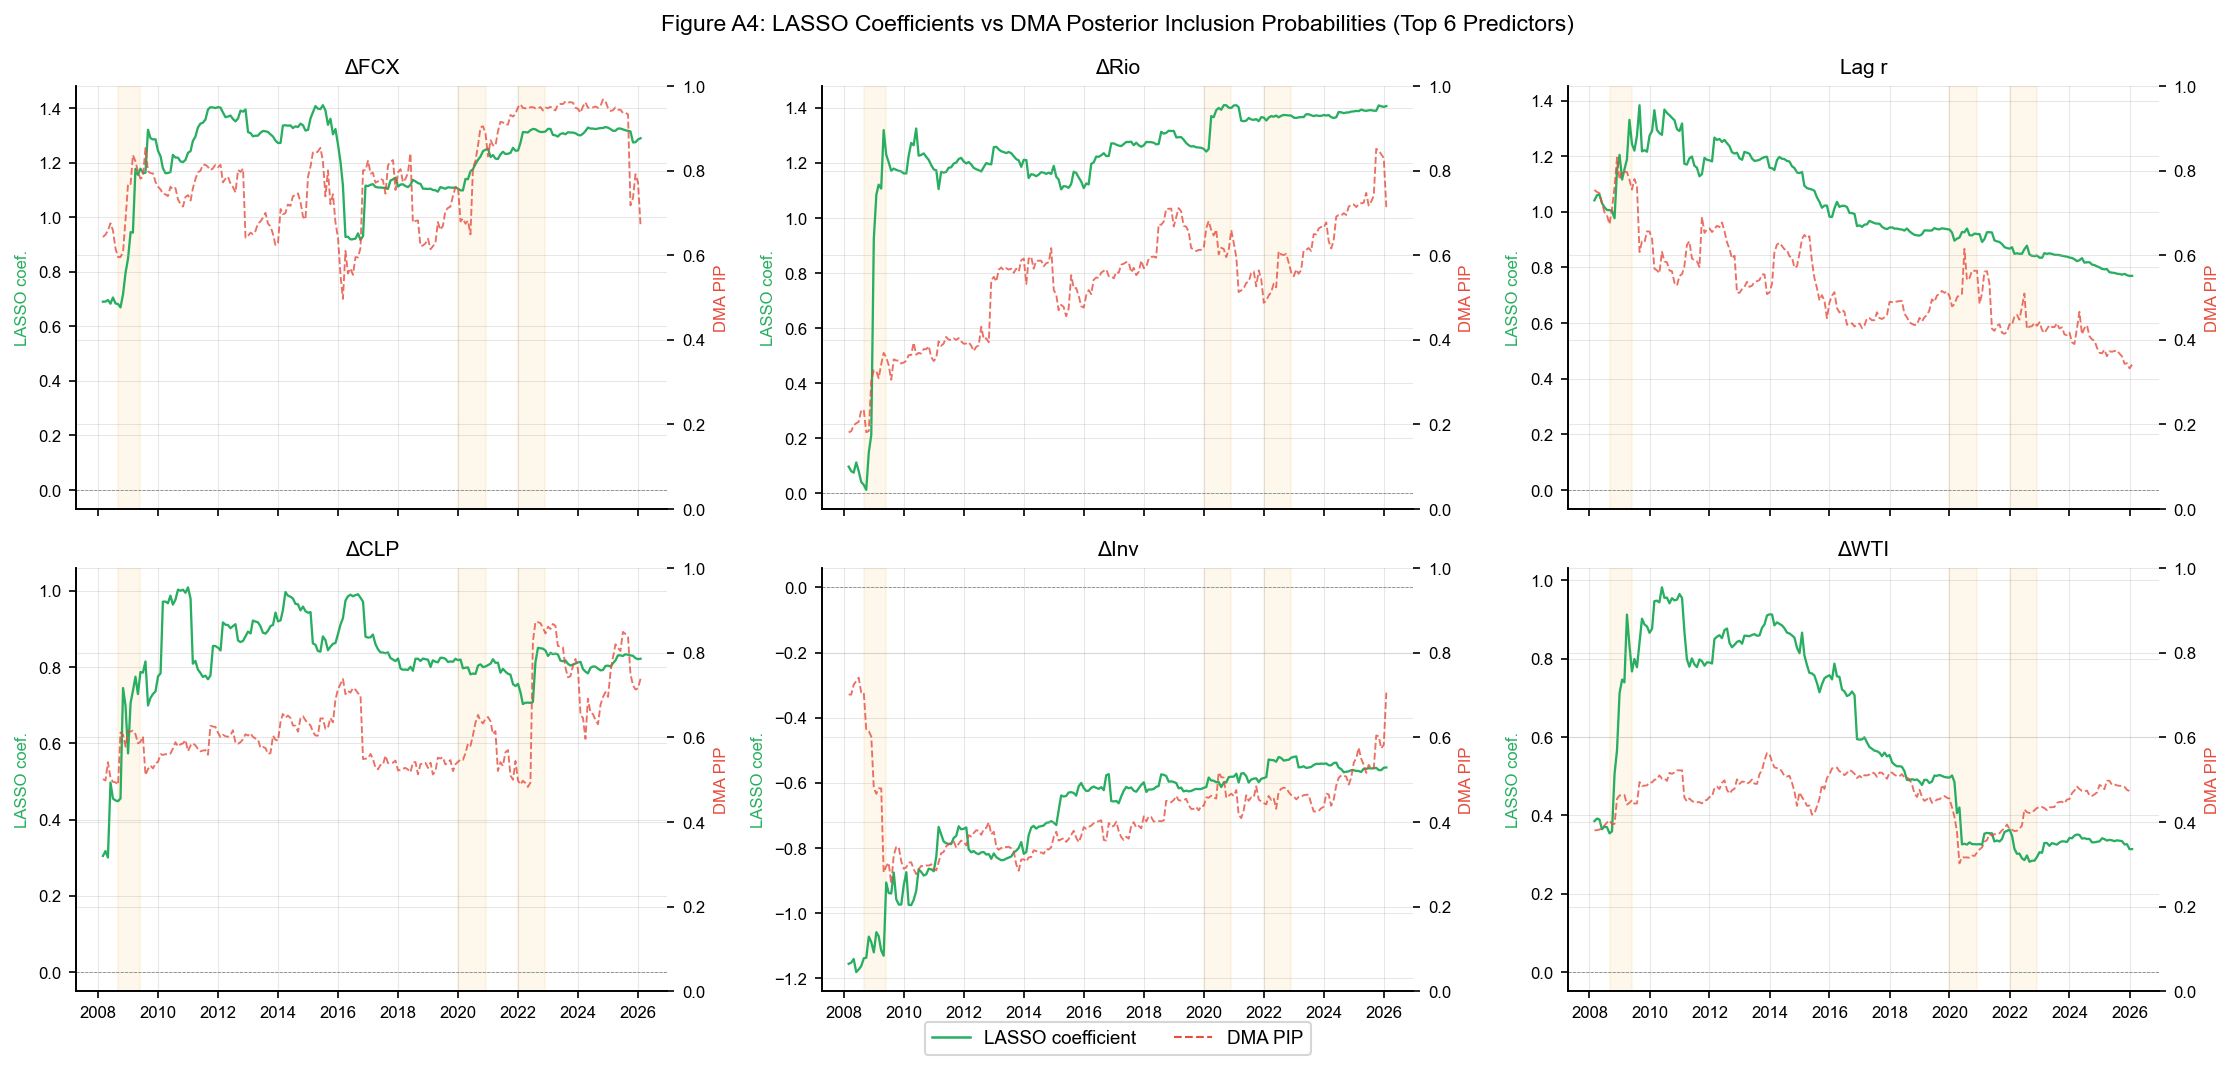
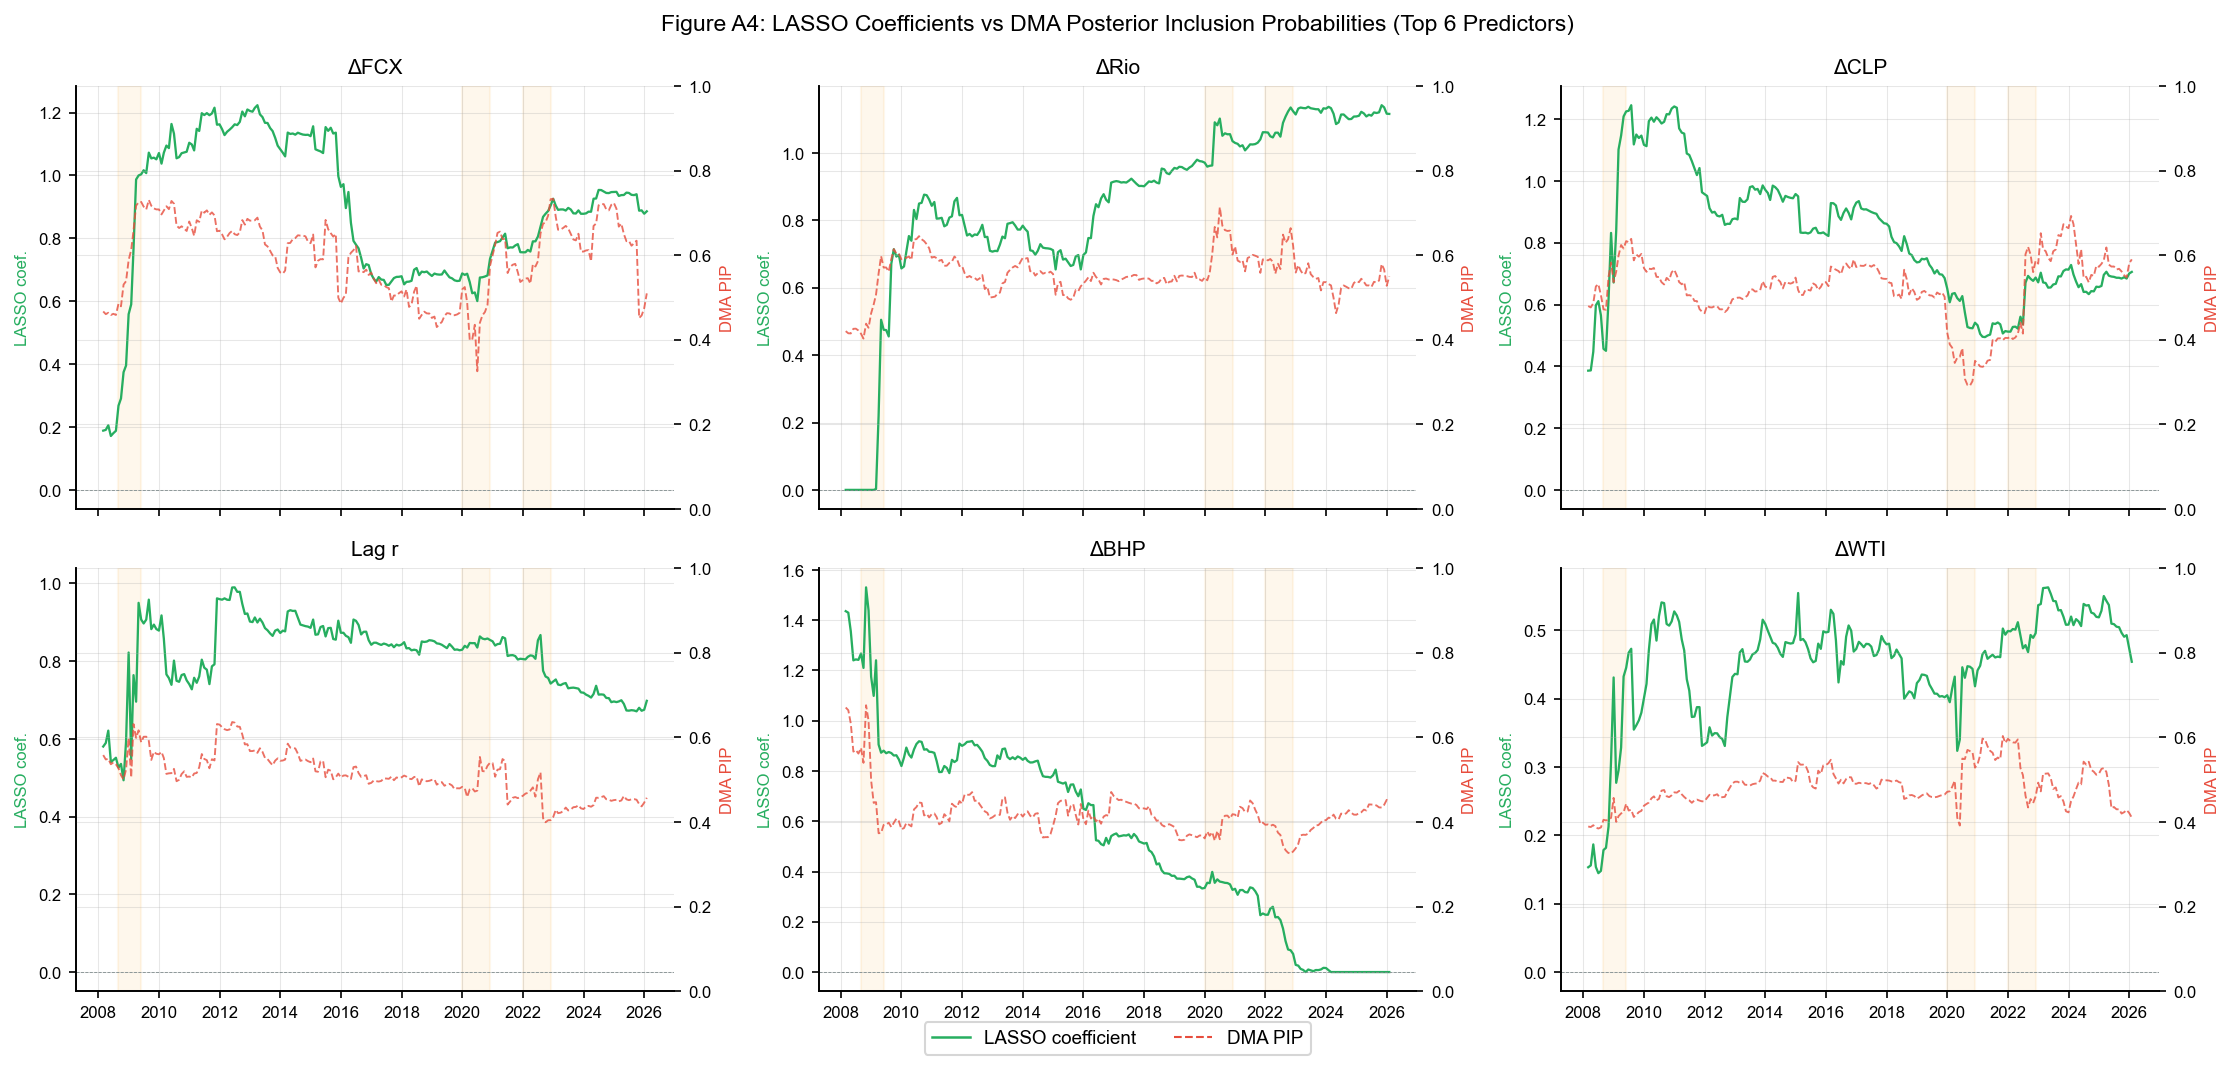
First Push

diff --git a/src/01_pipeline.py b/src/01_pipeline.py
@@ -278,9 +278,14 @@ def _aggregate_monthly(raw, ibor):
     Daily price/index series use monthly mean (consistent with the paper).
     """
     # Daily price/index series -> month-end last (avoids Working's effect on returns)
-    last_cols  = ['spot', 'fwd3m', 'gold', 'spx', 'vix', 'wti', 'bdi',
+    # spot and fwd3m use monthly averages following Buncic & Moretto (2014),
+    # who explicitly state they use monthly average LME prices as the target.
+    # All other price series use month-end close to avoid Working's Effect.
+    mean_cols = ['spot', 'fwd3m']
+    last_cols  = ['gold', 'spx', 'vix', 'wti', 'bdi',
                   'inv', 'alcoa', 'bhp', 'fcx', 'rio', 'audusd', 'usdclp']
-    monthly = {col: _monthly_last(raw[col], col) for col in last_cols}
+    monthly = {col: _monthly_mean(raw[col], col) for col in mean_cols}
+    monthly.update({col: _monthly_last(raw[col], col) for col in last_cols})
     # Interbank rate kept as monthly mean (a level, not a return basis)
     monthly['ibor'] = _monthly_mean(ibor, 'ibor')
 
